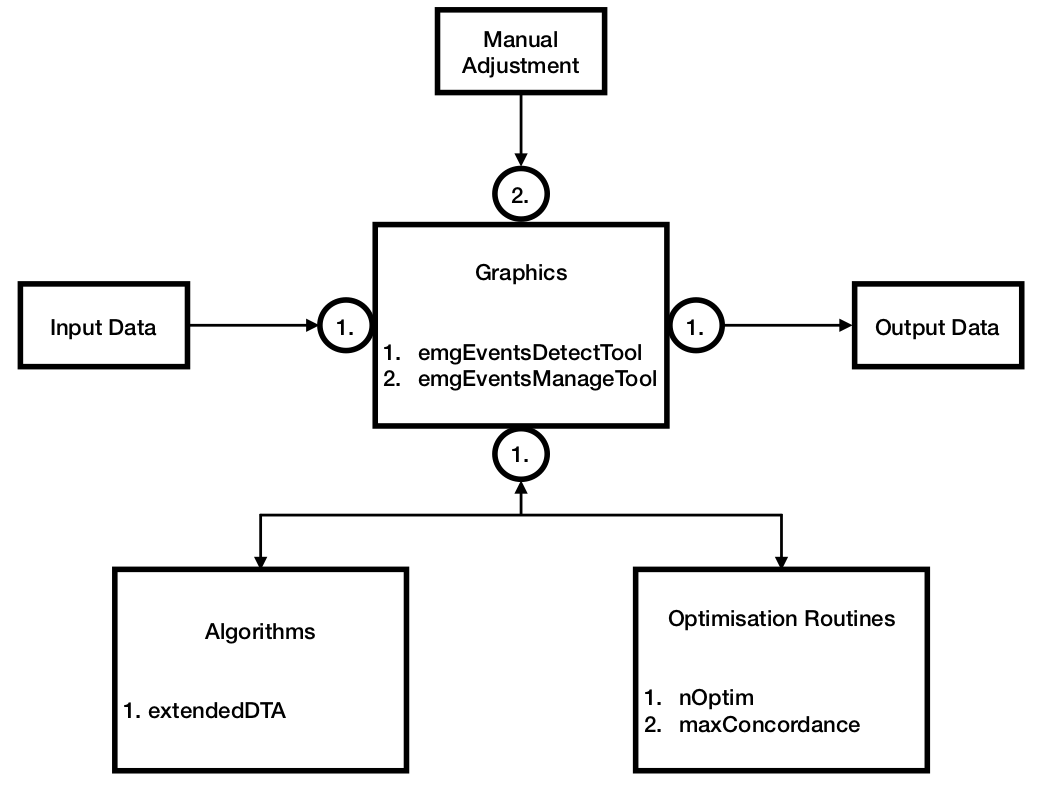
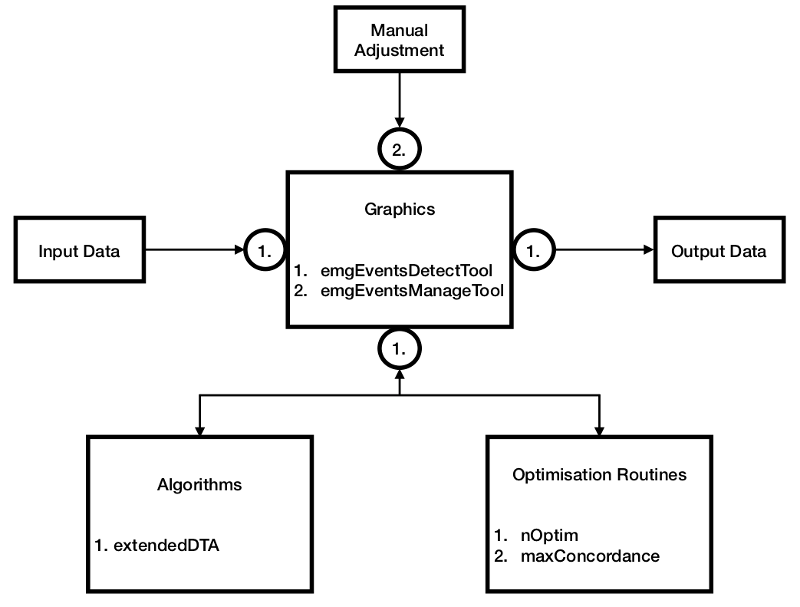
Adjusted image sizes

diff --git a/README.md b/README.md
@@ -1,6 +1,6 @@
 # emgGO
 
-emgGO, which stands for electromyography, graphics and optimisation, is a toolbox which allows offline muscle activity onset/offset detection in multi-channel EMG data. Using the *nOptim* technique, the expected number of onsets/offsets can be automatically detected in the data. These onsets/offsets can be scrolled through and individually adjusted using GUI tools with keyboard shortcuts or mouse pointer as convenient.
+emgGO, which stands for electromyography, graphics and optimisation, is a toolbox which allows offline muscle activity onset/offset detection in multi-channel EMG data. Using the *nOptim* technique, the expected number of onsets/offsets can be automatically detected in the data. These onsets/offsets can be scrolled through and individually adjusted using GUI tools with keyboard shortcuts or the mouse pointer.
 
 ## Compatibility
 Currently, emgGO is being developed on macOS Mojave, MATLAB 2017b.
@@ -14,19 +14,23 @@ $ git clone https://github.com/GallVp/emgGO
 
 ## Overview
 emgGO is divided into three modules, (a) detection algorithms, (b) optimisation routines, and (c) graphics tools. This modular design is enforced with strictly defined protocols of information exchange across these modules. By following the defined protocols, new functionality can be added to a module without changing any code in the other modules. The structure along with their inter-connection is shown in below figure.
+
 |![alt text](docs/figs/emgGO_SD.png)|
 |:--:|
-|**Fig. 1.** *The modules of emgGO along with their inter-connections.*|
+|**Fig. 1.** *The different modules of emgGO along with their inter-connections.*|
 
 ### Graphics Tools
 emgGO has two graphics tools, (1.) *emgEventsDetectTool and* (2.) *emgEventsManageTool*. *emgEventsDetectTool* displays the loaded data and automatically detects the onsets/offsets using the selected algorithm. It can be used to switch between channels, manually tune the detection algorithm with the ability to visually check the results of each step of the algorithm, and automatically find the expected number of onset/offset pairs using the *nOptim* technique. Its impression is shown in the figure below.
+
 |![alt text](docs/figs/emgGO_a.png)|
 |:--:|
-|**Fig. 2.** *emgEventsDetectTool of emgGO.*|
+|**Fig. 2.** *emgEventsDetectTool*|
+
 *emgEventsManageTool* can be used to scroll through individual onsets or offets. Both keyboard shortcuts and mouse pointer can be used to insert, delete, and move each event.
+
 |![alt text](docs/figs/emgGO_b.png)|
 |:--:|
-|**Fig. 3.** *emgEventsManageTool of emgGO.*|
+|**Fig. 3.** *emgEventsManageTool*|
 
 ## Third Party Libraries
 emgGO uses following third party libraries. The licenses for these libraries can be found next to source files in their respective libs/thirdpartlib folders.
